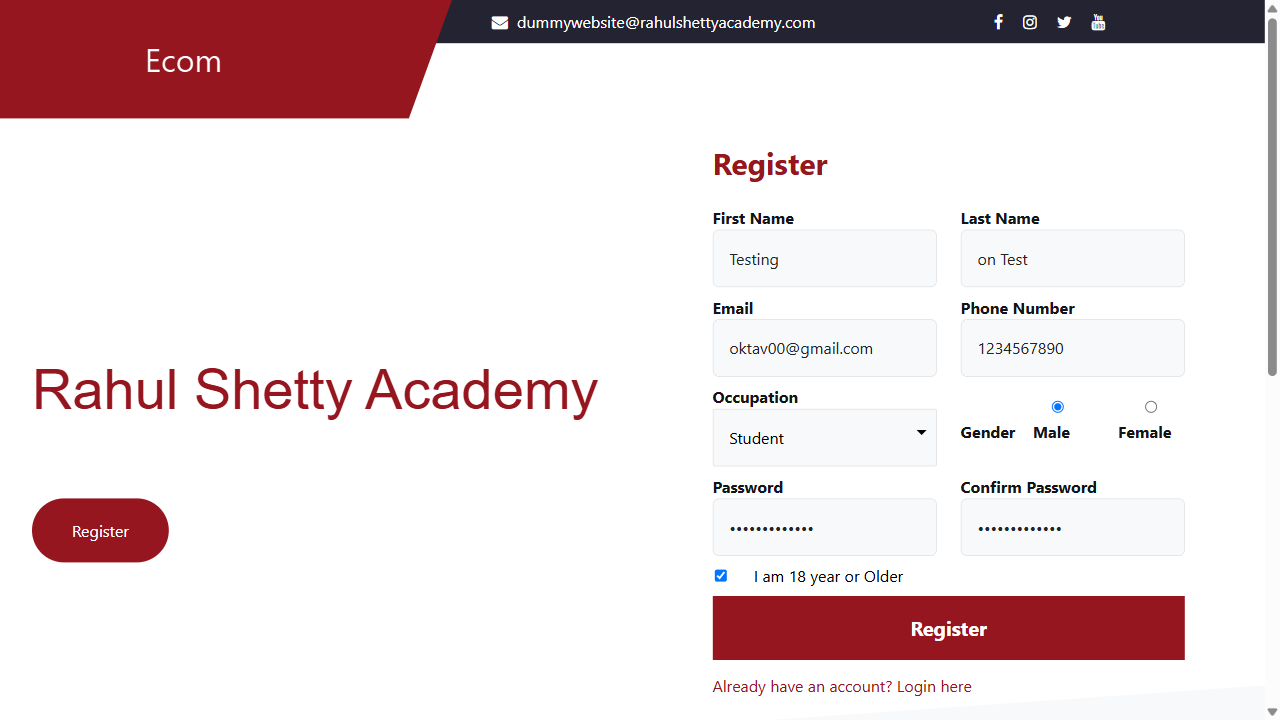
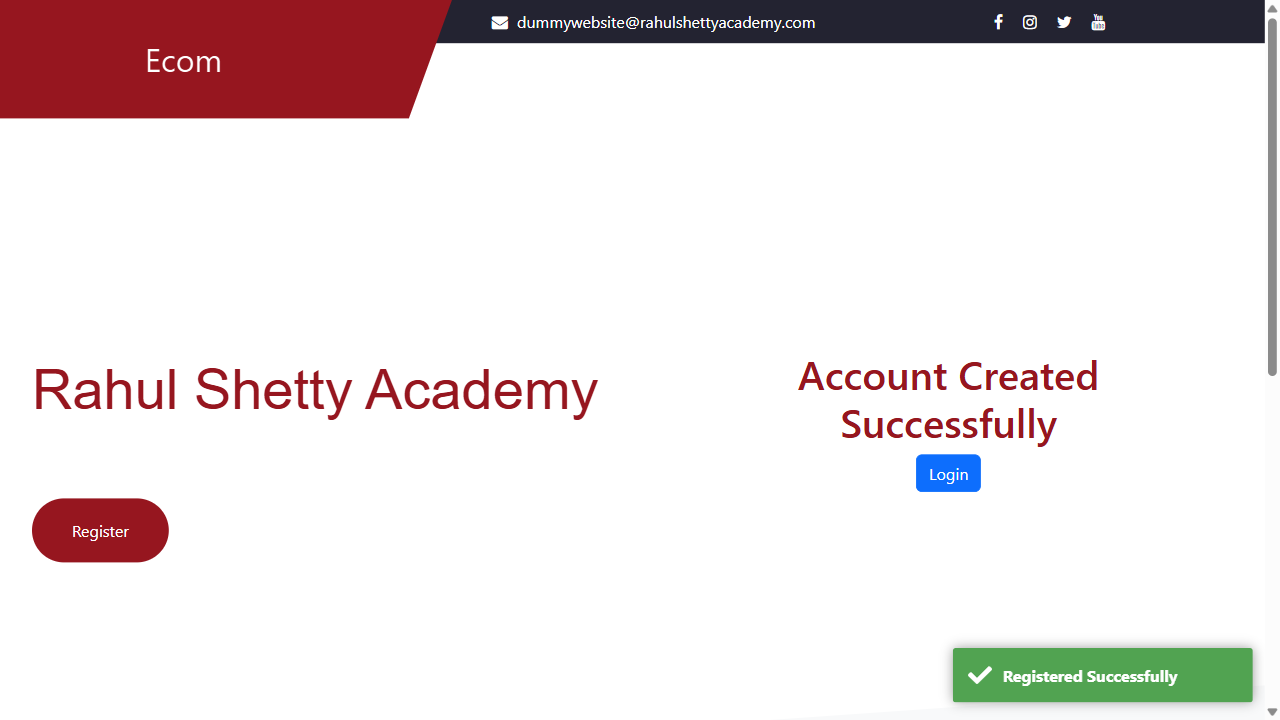
Registration complate (need improve on test flow)

diff --git a/tests/Registration.spec.js b/tests/Registration.spec.js
@@ -1,6 +1,6 @@
 import {test, expect} from '@playwright/test'
 
-/** TC-Regis-001 : Registratio using valid input */
+/** TC-Regis-002 : RRegistration with data already exists */
 test('Registratio using valid input',async({page}) => {
     //launch web
     await page.goto("https://rahulshettyacademy.com/client/#/auth/register")
@@ -32,5 +32,54 @@ test('Registratio using valid input',async({page}) => {
     await checkbox.click();
     await buttonRegis.click();
     // await expect(msgToastError).toHaveText("User already exisits with this Email Id");
+    await page.screenshot({path: "screenshot/registration/data already exist.png"});
+});
+
+/** TC-Regis-003 : Registration with empty input */
+test('Registration with empty input', async ({page}) => {
+    //launch web
+    await page.goto("https://rahulshettyacademy.com/client/#/auth/register");
+
+    //get element using xpath
+    const buttonRegis = page.locator("//input[@id='login']");
+    const errorRequired = page.locator("(//div[@class='invalid-feedback'])[1]");
+
+    //process 
+    await buttonRegis.click();
+    await errorRequired.waitFor();
+    await page.screenshot({path: "screenshot/registration/regist with empty input.png"});
+});
+
+/** TC-Regis-001 : Registration using valid input */
+test ("Registration using valid input", async ({page}) => {
+    //launch web 
+    await page.goto("https://rahulshettyacademy.com/client/#/auth/register");
+
+    //get element using xpath
+    const firstName = page.locator("//input[@id='firstName']");
+    const lastName = page.locator("//input[@id='lastName']");
+    const email = page.locator("//input[@id='userEmail']");
+    const phoneNumber = page.locator("//input[@id='userMobile']");
+    const occupation = page.locator("//select[@formcontrolname='occupation']");
+    const genderFemale = page.locator("//input[@value='Male']");
+    const password = page.locator("//input[@id='userPassword']");
+    const confirmPassword = page.locator("//input[@id='confirmPassword']");
+    const checkbox = page.locator("//input[@type='checkbox']");
+    const buttonRegis = page.locator("//input[@id='login']");
+    const successMsg = page.locator("//h1[normalize-space(.)='Account Created Successfully']");
+
+    //process
+    await firstName.fill("Testing");
+    await lastName.fill("on Test");
+    await email.fill("oktav1@gmail.com");
+    await phoneNumber.fill("1234567890");
+    //select by value
+    await occupation.selectOption("2: Student");
+    await genderFemale.click();
+    await password.fill("Testing12345@");
+    await confirmPassword.fill("Testing12345@");
+    await checkbox.click();
+    await buttonRegis.click();
+    await successMsg.waitFor();
     await page.screenshot({path: "screenshot/registration/regis_sukses.png"});
 });
